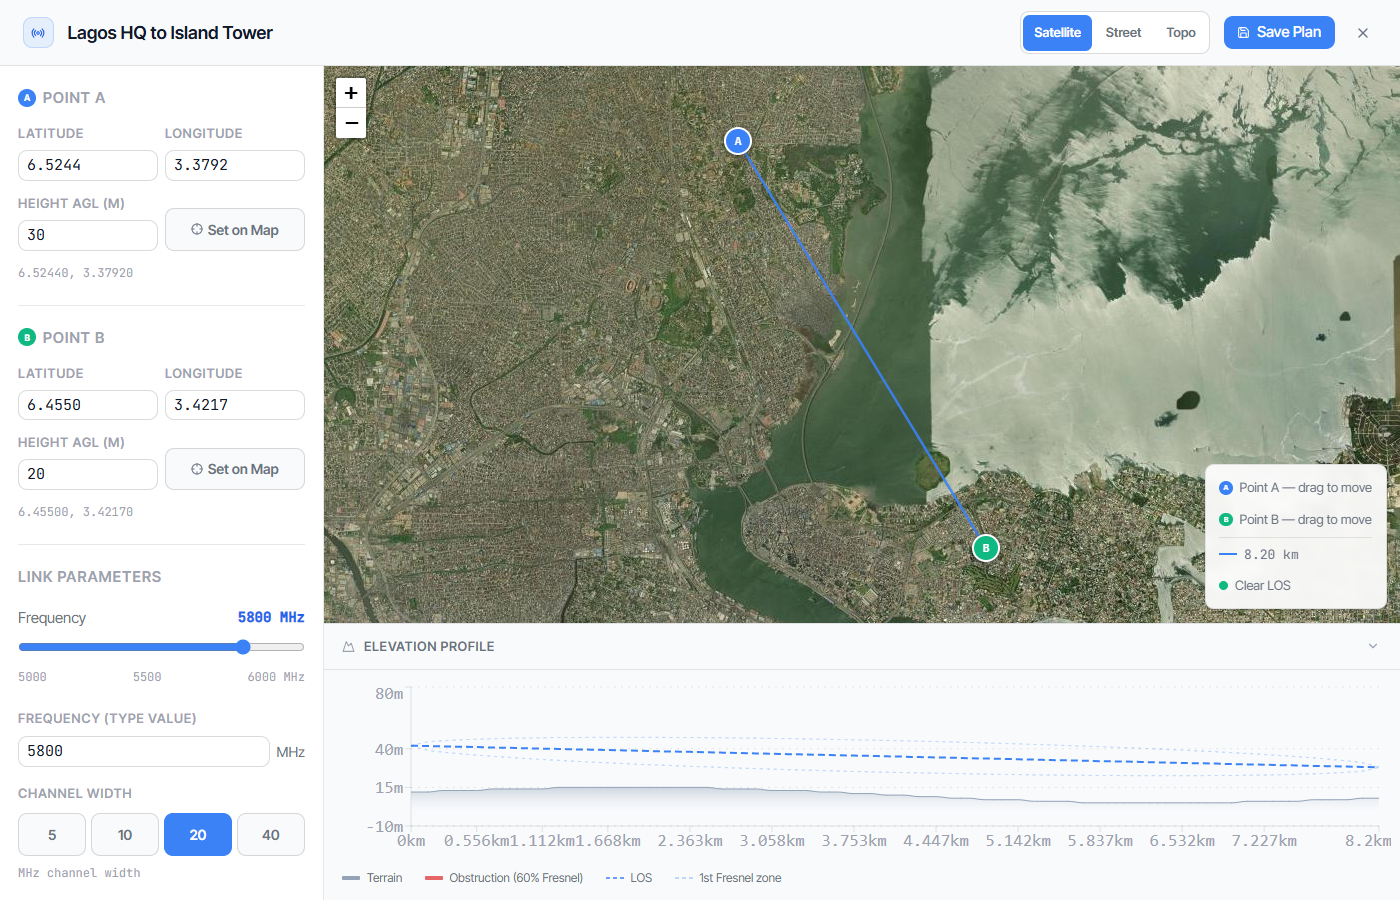
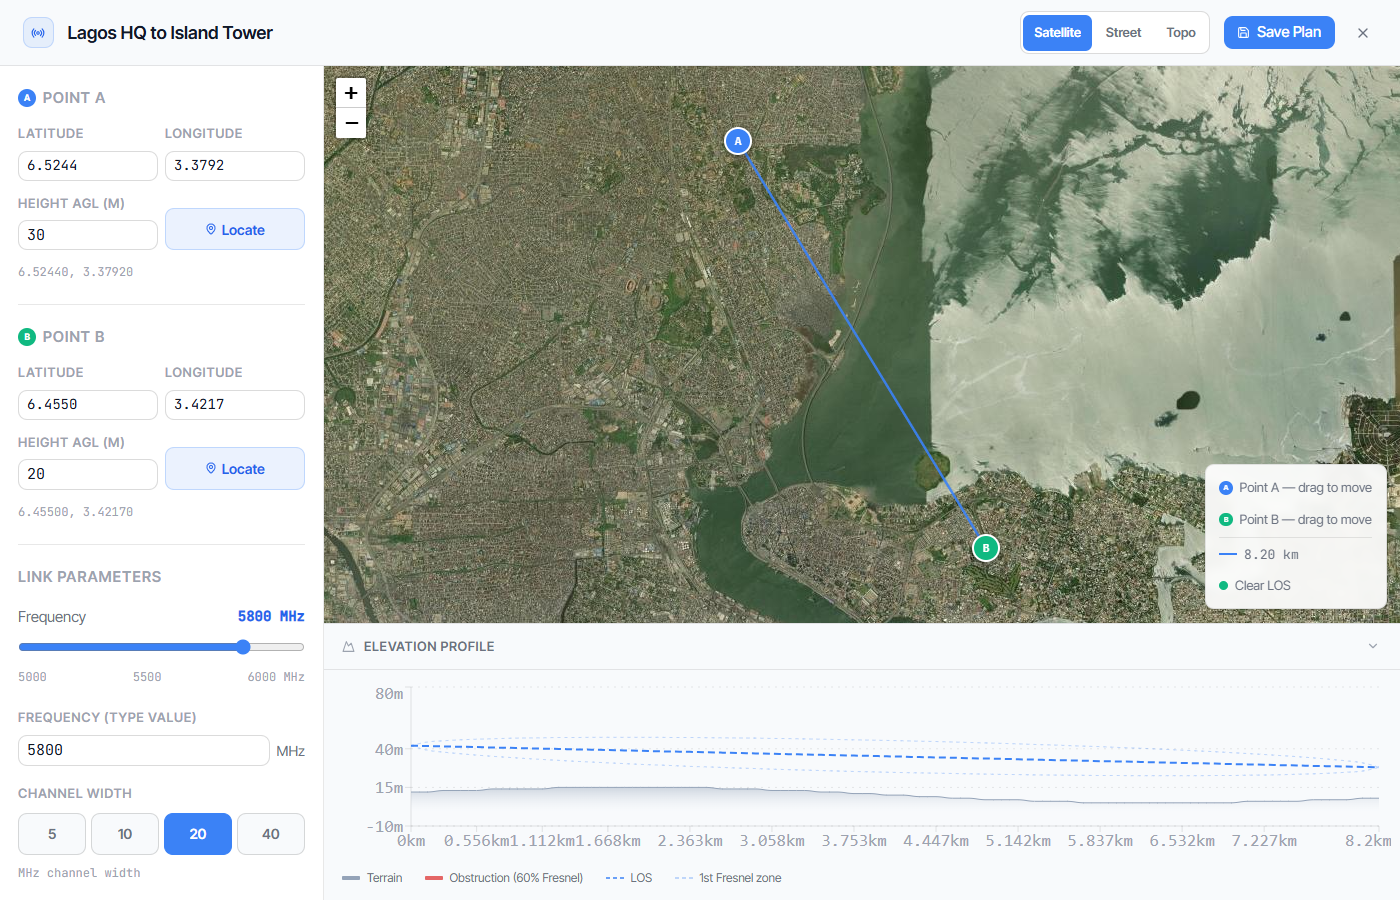
Link Planner 13

diff --git a/frontend/src/components/LinkPlanModal.jsx b/frontend/src/components/LinkPlanModal.jsx
@@ -133,6 +133,36 @@ function rfAnalyze(ptA, ptB, freqMHz, chWidth, elevations) {
   }
 }
 
+// ─── DMS → decimal converter ─────────────────────────────────────────────────
+
+function parseDMSToDecimal(str) {
+  if (!str || str.trim() === '') return ''
+  const s = str.trim()
+
+  // Already a plain decimal — leave untouched
+  if (/^-?\d+\.?\d*$/.test(s)) return s
+
+  // Extract hemisphere (N/S/E/W)
+  const dirMatch = s.toUpperCase().match(/[NSEW]/)
+  const dir = dirMatch ? dirMatch[0] : null
+  const negative = dir === 'S' || dir === 'W'
+
+  // Strip symbols: °  ′  ″  '  "  `  ,  direction letters
+  const stripped = s.replace(/[°′″'"`,NSEW]/gi, ' ').trim()
+  const parts = stripped.split(/\s+/).map(Number).filter(p => !isNaN(p))
+
+  if (parts.length === 0) return s  // unrecognised — leave as-is
+
+  const deg = parts[0] ?? 0
+  const min = parts[1] ?? 0
+  const sec = parts[2] ?? 0
+
+  let decimal = Math.abs(deg) + min / 60 + sec / 3600
+  if (deg < 0 || negative) decimal = -decimal
+
+  return isNaN(decimal) ? s : decimal.toFixed(6)
+}
+
 // ─── localStorage ────────────────────────────────────────────────────────────
 
 const LS_KEY = 'netsupportai-link-plans'
@@ -236,15 +266,17 @@ function CoordPanel({ point, label, color, clickMode, onCoordChange, onToggleCli
                 {field === 'lat' ? 'Latitude' : 'Longitude'}
               </label>
               <input
-                type="number"
-                placeholder={field === 'lat' ? '0.000000' : '0.000000'}
-                step="0.000001"
-                min={field === 'lat' ? -90 : -180}
-                max={field === 'lat' ? 90 : 180}
+                type="text"
+                inputMode="decimal"
+                placeholder={field === 'lat' ? '6.4541 or 6°27′14″N' : '3.3947 or 3°23′40″E'}
                 value={point[field]}
                 onChange={e => onCoordChange(field, e.target.value)}
+                onBlur={e => {
+                  const converted = parseDMSToDecimal(e.target.value)
+                  if (converted !== e.target.value) onCoordChange(field, converted)
+                }}
                 className="input font-mono"
-                style={{ fontSize: 15, padding: '5px 8px' }}
+                style={{ fontSize: 14, padding: '5px 8px' }}
               />
             </div>
           ))}